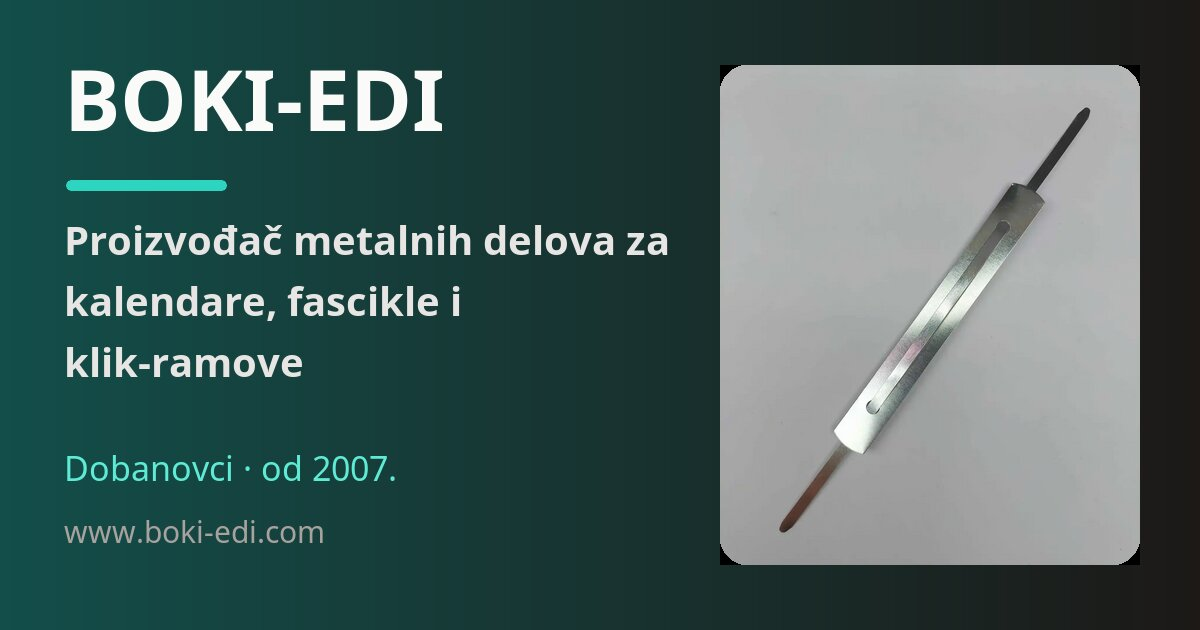
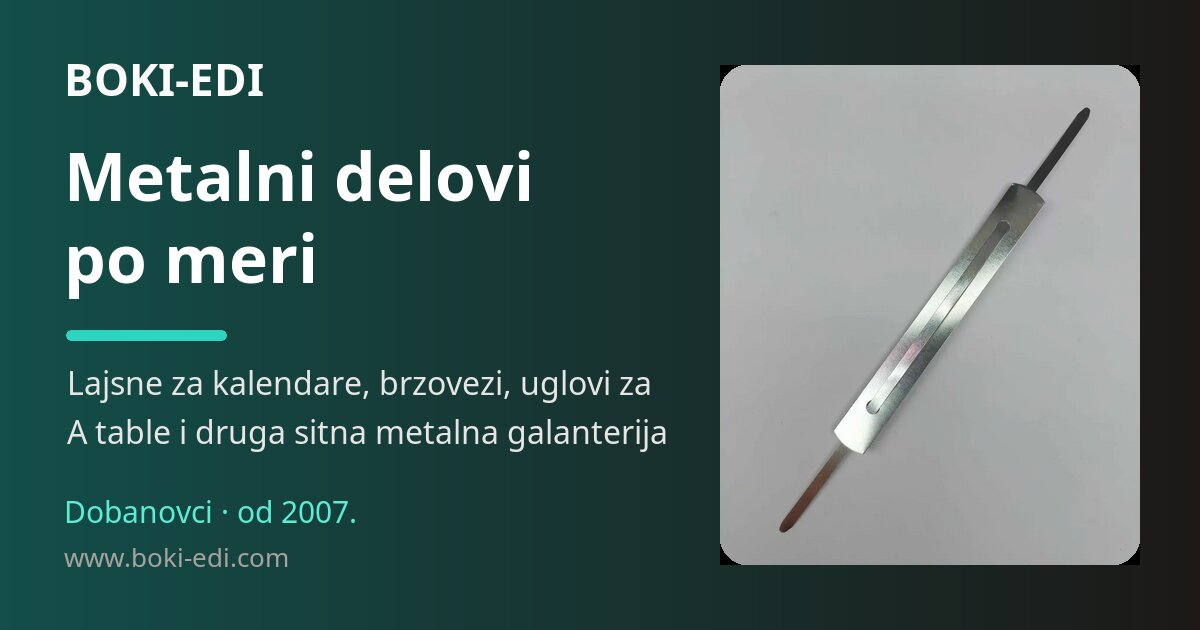
Shorten headline, new page title and link preview
- h1 "Metalni delovi po meri" with one supporting line and two buttons
  ("Pogledajte proizvode" -> #proizvodi, "Pošaljite upit" -> #kontakt)
- <title> "Boki-Edi – radnja za proizvodnju sitne metalne galanterije";
  meta and Open Graph description list the main products (154 chars)
- og-image.jpg regenerated with the new headline; the ImageMagick commands
  are now in scripts/make-og-image.sh
- LocalBusiness schema gets a contactPoint linking to /#kontakt
- Non-breaking spaces keep "po meri" and "A table" on one line

diff --git a/src/sections/Hero.jsx b/src/sections/Hero.jsx
@@ -2,30 +2,29 @@ import { Link } from "react-router-dom";
 
 export default function Hero() {
   return (
-    <section id="pocetna" className="scroll-mt-20 w-full px-6 pt-10 pb-8 text-center animate-fade">
-      <div className="max-w-4xl mx-auto space-y-12">
+    <section id="pocetna" className="scroll-mt-20 w-full px-6 pt-12 pb-6 md:pt-16 text-center animate-fade">
+      <div className="max-w-3xl mx-auto">
         {/* Title with decorative underline (drawn with ::after) */}
-        <h1 className="relative text-3xl md:text-5xl font-extrabold tracking-tight leading-tight text-transparent bg-clip-text bg-gradient-to-r from-teal-900 to-stone-900 after:absolute after:left-1/2 after:-translate-x-1/2 after:-bottom-5 after:w-40 after:h-2 after:rounded-full after:bg-gradient-to-r after:from-teal-400 after:to-cyan-900">
-          Proizvođač metalnih delova za kalendare, fascikle i klik-ramove — Dobanovci, od 2007.
+        <h1 className="relative text-4xl md:text-6xl font-extrabold tracking-tight leading-tight text-transparent bg-clip-text bg-gradient-to-r from-teal-900 to-stone-900 after:absolute after:left-1/2 after:-translate-x-1/2 after:-bottom-4 after:w-40 after:h-2 after:rounded-full after:bg-gradient-to-r after:from-teal-400 after:to-cyan-900">
+          Metalni delovi po&nbsp;meri
         </h1>
 
-        <p className="text-lg md:text-xl text-stone-700 leading-relaxed">
-          U našoj radionici u Dobanovcima izrađujemo sitnu metalnu galanteriju za štamparije,
-          proizvođače fascikli, registratora, rokovnika i ramova, kao i za veleprodaje kancelarijskog
-          materijala.
+        <p className="mt-10 text-lg md:text-xl text-stone-700 leading-relaxed">
+          Lajsne za kalendare, brzovezi, uglovi za A&nbsp;table i druga sitna metalna galanterija.
+          Dobanovci, od 2007.
         </p>
 
         {/* Call-to-Action */}
-        <div className="flex flex-col sm:flex-row gap-4 justify-center">
+        <div className="mt-8 flex flex-col sm:flex-row gap-4 justify-center">
           <Link
             to="/#proizvodi"
-            className="inline-block px-8 py-4 border-2 border-cyan-900 text-cyan-900 font-semibold text-lg rounded-lg hover:bg-cyan-900 hover:text-stone-100 transition-colors"
+            className="inline-block px-8 py-3 border-2 border-cyan-900 text-cyan-900 font-semibold text-lg rounded-lg hover:bg-cyan-900 hover:text-stone-100 transition-colors"
           >
             Pogledajte proizvode
           </Link>
           <Link
             to="/#kontakt"
-            className="inline-block px-8 py-4 bg-gradient-to-r from-teal-500 to-cyan-900 text-stone-200 font-semibold text-lg rounded-lg shadow-lg hover:scale-105 transition-transform"
+            className="inline-block px-8 py-3 bg-gradient-to-r from-teal-500 to-cyan-900 text-stone-100 font-semibold text-lg rounded-lg shadow-lg hover:scale-105 transition-transform"
           >
             Pošaljite upit
           </Link>

diff --git a/src/seo.js b/src/seo.js
@@ -1,5 +1,6 @@
-// Title and description for every page. Used at build time (scripts/prerender.mjs writes them
-// into each page's <head> and lists the pages in sitemap.xml) and in the browser (usePageMeta).
+// Title and description of the site (a single page) and of the 404 page. Used at build time
+// (scripts/prerender.mjs writes them into <head>, incl. Open Graph, and lists the pages in sitemap.xml)
+// and in the browser (usePageMeta).
 // Keep titles under ~60 characters and descriptions under ~160 so Google shows them in full.
 
 import { company } from "./data/company.js";
@@ -12,14 +13,14 @@ export const OG_IMAGE = {
   path: "/og-image.jpg",
   width: 1200,
   height: 630,
-  alt: "Boki-Edi – proizvođač metalnih delova za kalendare, fascikle i klik-ramove, Dobanovci",
+  alt: "Boki-Edi – metalni delovi po meri: lajsne za kalendare, brzovezi, uglovi za A table. Dobanovci, od 2007.",
 };
 
 export const pages = {
   "/": {
-    title: "Boki-Edi – metalni delovi za kalendare, fascikle i ramove",
+    title: "Boki-Edi – radnja za proizvodnju sitne metalne galanterije",
     description:
-      "Radionica Boki-Edi iz Dobanovaca od 2007. izrađuje lajsne za kalendare, mehanike za fascikle i delove za ramove — po meri, u malim i velikim serijama.",
+      "Boki-Edi iz Dobanovaca (Beograd) od 2007. izrađuje metalne delove po meri: lajsne za kalendare, brzoveze, mehanike za fascikle, uglove za A table i drugo.",
   },
 };
 
